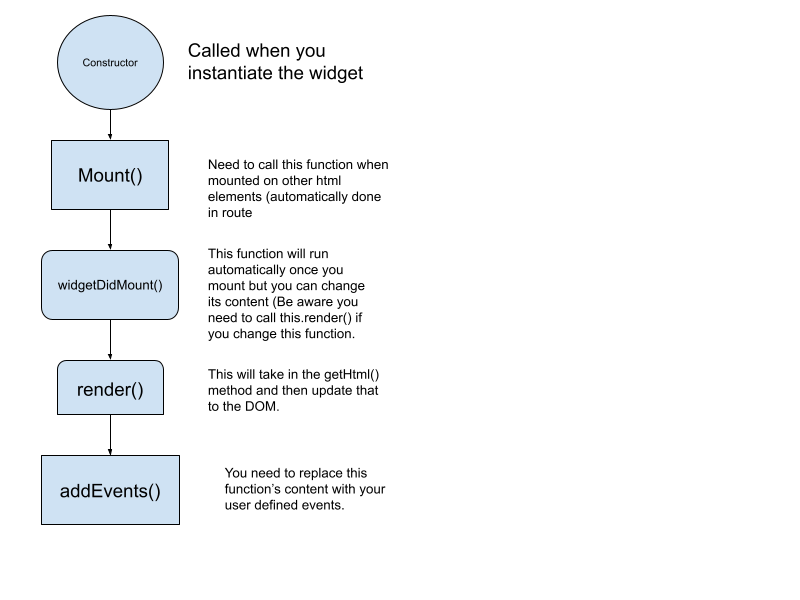
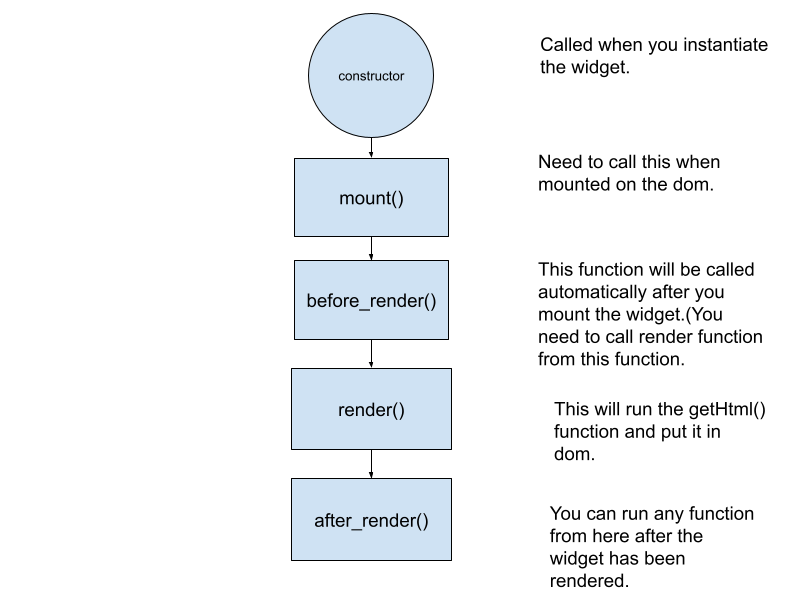
Added changes to lifecycle

diff --git a/015-FreeschemaQueryReverseExample.md b/015-FreeschemaQueryReverseExample.md
@@ -1,0 +1,52 @@
+<h1>FreeschemaQuery Reverse Example</h1>
+
+Let's suppose you have a connection such as this.
+
+![local_to_real_nodes](images/public%20reverse.png)
+
+Here you have a connection from the main data to the copy of the data. Which then eventually are reversed connected to the connection called the_public_widget.
+
+This is a type of example where you have to query something in the reverse order. In this example. There are widget code which are published by the user and these are then connected to the the_public_widget.
+
+
+To execute this query we call this function.
+
+```
+    let filters = new FilterSearch();
+    filters.type = "the_public_widget";
+    filters.search = '';
+    filters.operateon = "public";
+    filters.name = "publicfilter";
+    filters.logicoperator = "=";
+
+    let allPublic = new FreeschemaQuery();
+    allPublic.typeConnection = "the_public_widget_s_widget_code";
+    allPublic.freeschemaQueries = [];
+    allPublic.name = "public";
+    allPublic.reverse = true;
+
+    let allCopyWidgets = new FreeschemaQuery();
+    allCopyWidgets.typeConnection = "the_widget_code_s_copy";
+    allCopyWidgets.name = "copywidgets";
+    allCopyWidgets.selectors = ["the_widget_code_name", "the_widget_code_html", "the_widget_code_css"];
+    allCopyWidgets.freeschemaQueries = [allPublic];
+
+    let allWidgetCodes = new FreeschemaQuery();
+    allWidgetCodes.typeConnection = "the_entity_s_widget_code";
+    allWidgetCodes.name = "mywidgets";
+    allWidgetCodes.selectors = ["the_widget_code_name"];
+    allWidgetCodes.freeschemaQueries = [allCopyWidgets]
+
+    let freeschemaQuery = new FreeschemaQuery();
+    freeschemaQuery.conceptIds = [entityId];
+    freeschemaQuery.freeschemaQueries = [allWidgetCodes];
+    freeschemaQuery.inpage = 100;
+    freeschemaQuery.filterLogic = "( publicfilter )";
+    freeschemaQuery.filters = [filters];
+    freeschemaQuery.outputFormat = DATAID;
+    SchemaQueryListener(freeschemaQuery,"").subscribe((data:any)=>{
+        console.log("this is the data for public", data);
+    })
+
+
+```

diff --git a/005-create.md b/005-create.md
@@ -19,7 +19,7 @@ export class create extends StatefulWidget{
      * Since there is no other data to be fetched then we just render after the component 			has been mounted.
      * If there was certain data you want to populate then you would put it here.
      */
-    widgetDidMount(): void {
+    before_render(): void {
 
         this.render();
     }
@@ -80,7 +80,7 @@ This will give you the output of the form that you just created.
 
 
 
-Congratulations you have just created your first widget. Now this widget does nothing so we have to change that. Firstly you need to add events to this form . So we have created an aptly named function in the widget that is named addEvents().
+Congratulations you have just created your first widget. Now this widget does nothing so we have to change that. Firstly you need to add events to this form . So we have created an aptly named function in the widget that is named after_render().
 
  You can add all your user events on this function. So lets do that. Suppose we are creating a new composition called "the_phonebook". Then you will have to create this data structure in the freeschema data fabric using three inbuilt functions. 
 
@@ -122,7 +122,7 @@ we need to add events to the form. There is a submit button there so we will add
      * These are the events that user adds. These could be any thing like populating the data to creating the data
      * 
      */
-    addEvents(): void {
+    after_render(): void {
         let userId:number = getLocalUserId();
         let order: 1;
         let name = this.getElementById("name") as HTMLInputElement;

diff --git a/Lifecycle.md b/Lifecycle.md
@@ -7,10 +7,10 @@ Mounting is Putting the widget in the DOM.
 
 In Stateful widget you need to define a method called getHtml() which will return a string. The html that is defined in this getHtml() section is rendered.
 
-If there is any data that needs to be added to this widget the best place to call it is in widgetDidMount(). Currently we need to add this.render() inside of the widgetDidMount() once the data has been loaded.
+If there is any data that needs to be added to this widget the best place to call it is in before_render(). Currently we need to add this.render() inside of the before_render() once the data has been loaded.
 
-addEvents() is called when the widget has been added to DOM and you need to add user functionality there.
-addEvents is called after the new element is rendered to the dom.
+after_render() is called when the widget has been added to DOM and you need to add user functionality there.
+after_render is called after the new element is rendered to the dom.
 
 This can be shown in the lifecycle below
 ![local_to_real_nodes](images/lifecycle.png)

diff --git a/008-Update.md b/008-Update.md
@@ -14,7 +14,7 @@ So let's do that . First we must add a button in the list widget to incorporate 
           </tr>
 ```
 
-Again After we have updated the html section we will need to update the addEvents() section also to add  the button.
+Again After we have updated the html section we will need to update the after_render() section also to add  the button.
 
 
 
@@ -51,14 +51,14 @@ Now your phonebook widget should look like this.
 
 Now after you have the Edit button and once you click it it will update the create widget.
 
-In the create widget we need to update the addEvents section in the create widget
+In the create widget we need to update the after_render section in the create widget
 
 ```
 import { CreateTheConnectionLocal, LocalSyncData, MakeTheInstanceConceptLocal, PatcherStructure, UpdateComposition } from "mftsccs-browser";
 
 ....
 
-    addEvents(): void {
+    after_render(): void {
         let userId:number = getLocalUserId();
         let order: 1;
         let name = this.getElementById("name") as HTMLInputElement;

diff --git a/004-Login.md b/004-Login.md
@@ -53,7 +53,7 @@ getHtml() : This function will give us the html for the widget.
 
 
 
-addEvents() : This is a StatefulWidget specefic function that can be used to add the logic after the html has been rendered.
+after_render() : This is a StatefulWidget specefic function that can be used to add the logic after the html has been rendered.
 
 Here you can use LoginToBackend(email, password) function to get the output response and save them to local storage.
 
@@ -64,7 +64,7 @@ In the saveToLocalStorage() function there is another function inside of it that
      * These are the events that user adds. These could be any thing like populating the data to creating the data
      * 
      */
-        addEvents(): void {
+        after_render(): void {
             let email = this.getElementById("email") as HTMLInputElement;
             let password = this.getElementById("password") as HTMLInputElement;
             let submitButton = this.getElementById("submit");

diff --git a/006-List.md b/006-List.md
@@ -19,7 +19,7 @@ export class list extends StatefulWidget{
     page: number = 1;
 
 
-    widgetDidMount(): void {
+    before_render(): void {
         let userId: number = getLocalUserId();
         GetCompositionListListener("the_phonebook", userId, this.inpage, this.page, NORMAL).subscribe((output: any)=>{
             this.phonebooks = output;
@@ -63,7 +63,7 @@ Once the data is loaded from the GetCompositionListListener function it is popul
 after this data has been loaded we again render the component but now since the data has been loaded we will populate our html with the new data.
 
 ```
-    addEvents() {
+    after_render() {
       let tableElement = this.getElementById("mainbody");
       if(tableElement){
         console.log("this is the element", tableElement);

diff --git a/003-Register.md b/003-Register.md
@@ -46,7 +46,7 @@ import { StatefulWidget } from "../../default/StatefulWidget";
 export class register extends StatefulWidget{
 
 
-    addEvents(): void {
+    after_render(): void {
         let email = this.getElementById("email") as HTMLInputElement;
         let password = this.getElementById("password") as HTMLInputElement;
         let submitButton = this.getElementById("submit");

diff --git a/007-Wrapper Widget.md b/007-Wrapper Widget.md
@@ -46,7 +46,7 @@ Again we need to then mount the child widgets inside of it. So we call another f
 We have to assign each widget to the wrapper it is associated with. 
 
 ```
-    mountChildWidgets(){
+    mount_child(){
         let widget1 = this.getElementById("widget1");
         let widget2 = this.getElementById("widget2");
         let creating =new create();
